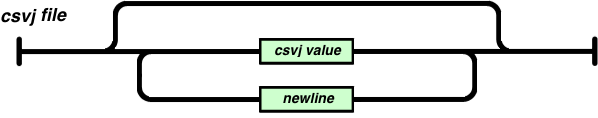
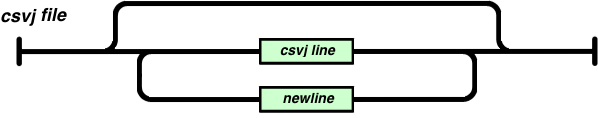
Non-optional table header; fixed image

Changed region(s): [[0.4515, 0.3814, 0.5719, 0.4831]]

diff --git a/index.html b/index.html
@@ -36,7 +36,7 @@ p.license { margin-left: 10pt; font-size: 8pt; }
 <h1>CSVJ</h1>
 
 <p>CSVJ is a csv-like format for storing tables that follows certain JSON encoding rules. </p>
-<p>Unlike plain csv, CSVJ has a strict definition for separators, quoting, encoding. It supposed to be imported and exported without configuration and it does not have dialects. </p>
+<p>Unlike plain csv, CSVJ has a strict definition for separators, quoting, encoding and non-optional header line. It supposed to be imported and exported without configuration and it does not have dialects. </p>
 
 <h2>Why?</h2>
 
@@ -45,7 +45,7 @@ There are many <a href="https://donatstudios.com/Falsehoods-Programmers-Believe-
 </p>
 
 <p>
-You can't be sure that CSV generated in one application could be imported to another without tweaking export or parsing parameters. CSVJ solves this. 
+You can't be sure that CSV generated in one application could be imported to another without tweaking export or import parameters. CSVJ solves this. 
 </p>
 
 <h2>Format</h2>
@@ -75,7 +75,10 @@ Each CSVJ line is like a JSON array, except:
 
 <p>String and number formats are the same as JSON.</p>
 
-<p>That's all.</p>
+<p>First line of every CSVJ file <b>must</b> contain table header &mdash; human readable names corresponding to the fields in the file, always represented as strings.</p>
+
+<p>Table header cannot be ommited. An empty first line can be used if there is no information about table fields.</p>
+
 
 <h2>Example</h2
 <p>
@@ -124,6 +127,7 @@ air, moon roof, loaded</td>
 The table above represented in CSVJ will look the following way: 
 </p>
 <pre>
+"Year","Make","Model","Description","Price"
 1996,"Ford","Ka","abs,ac",2999.99
 1998,"Chevy","Venture \"Extended Edition\"","",3999
 1998,"Chevy","Venture \"Executive Edition, Large\"","",4999
